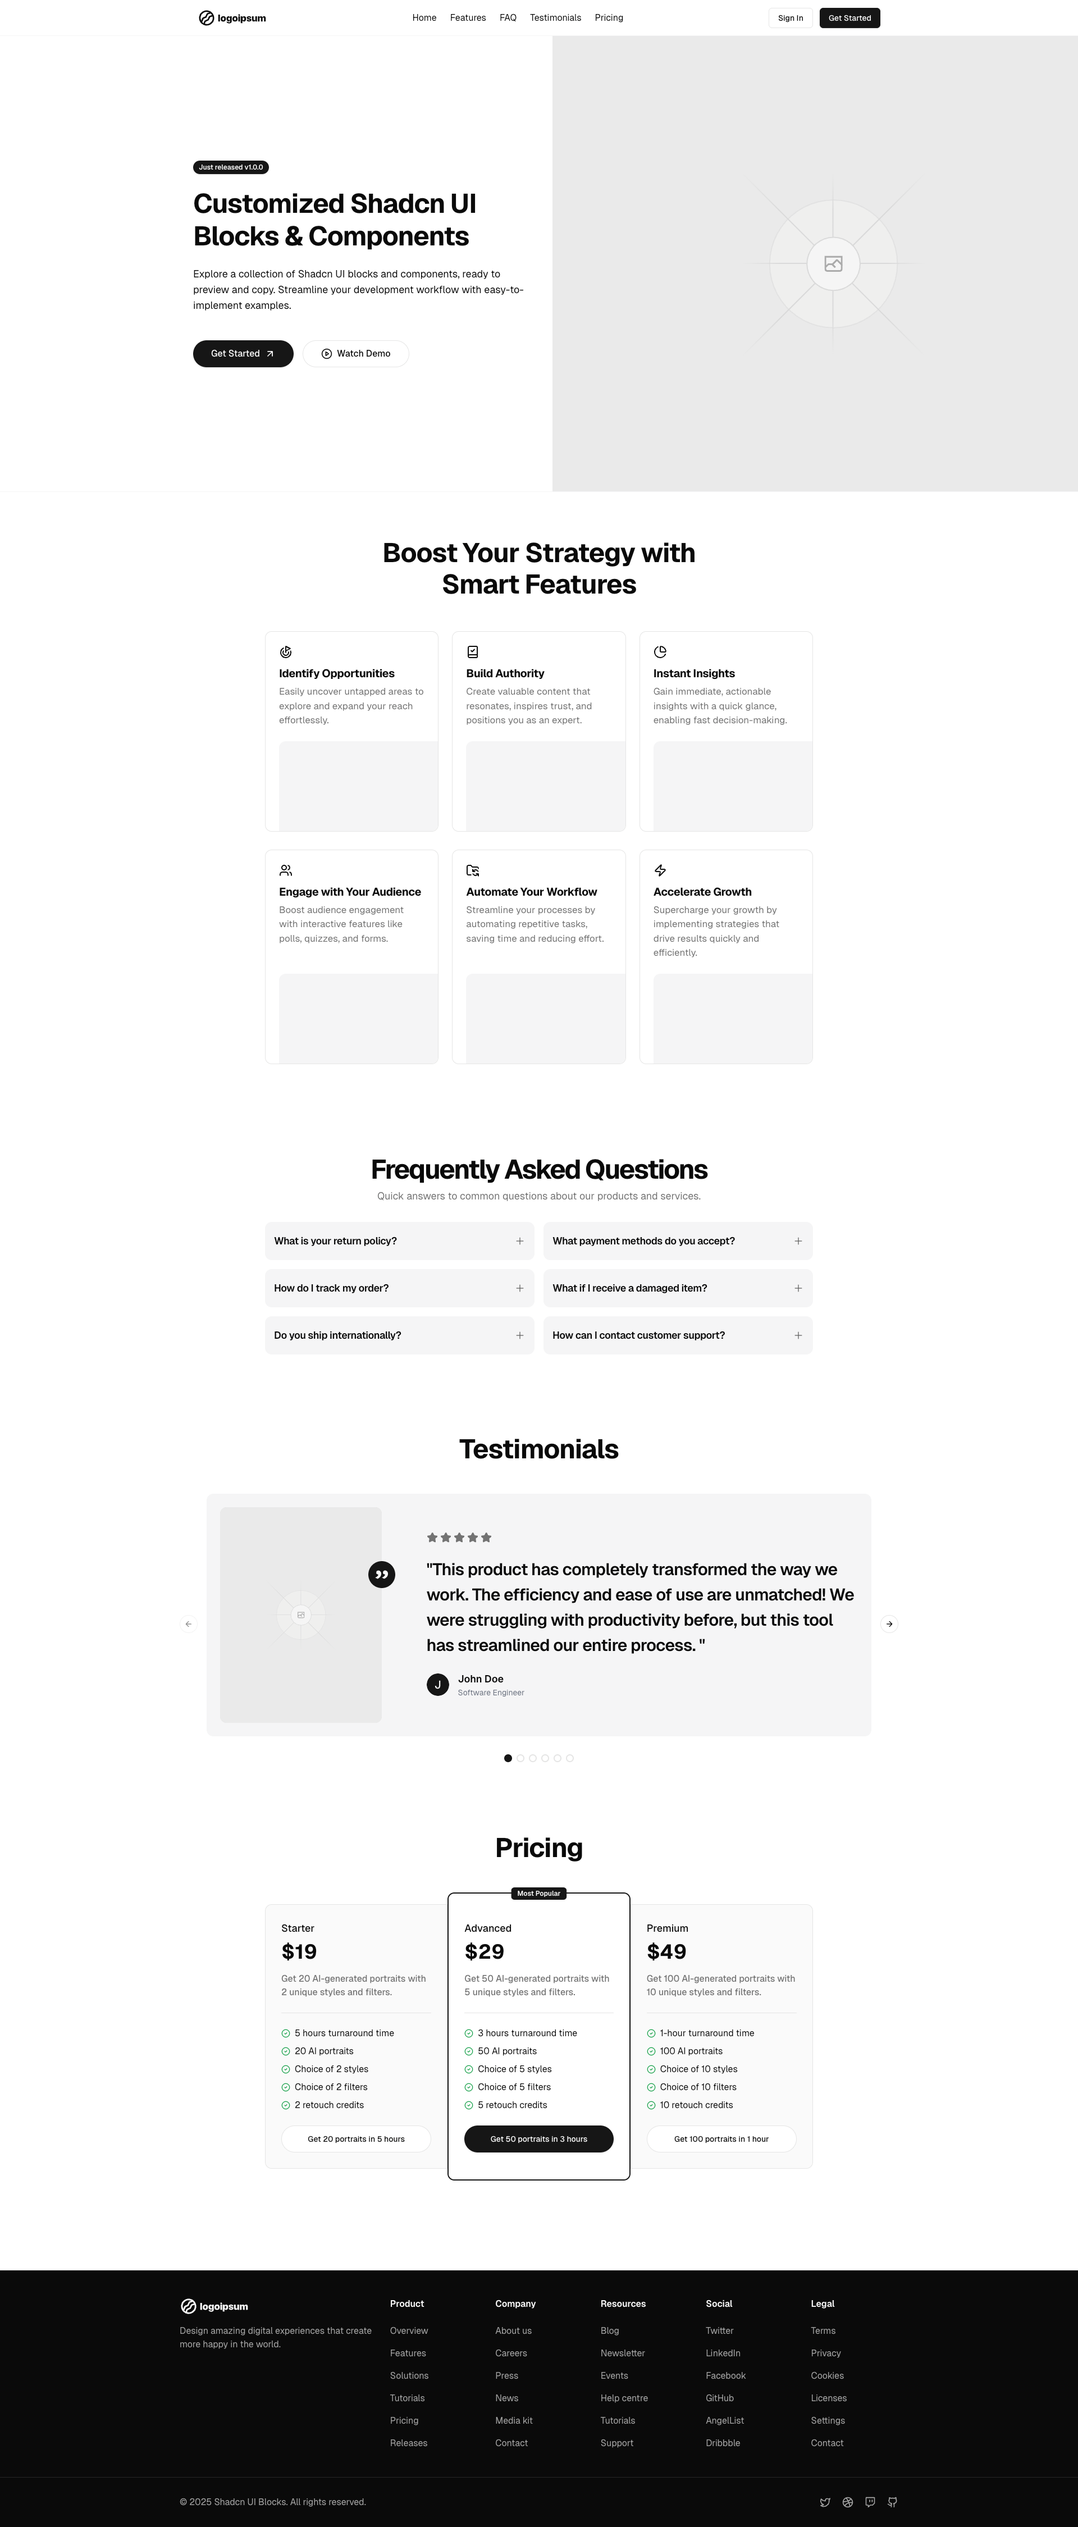
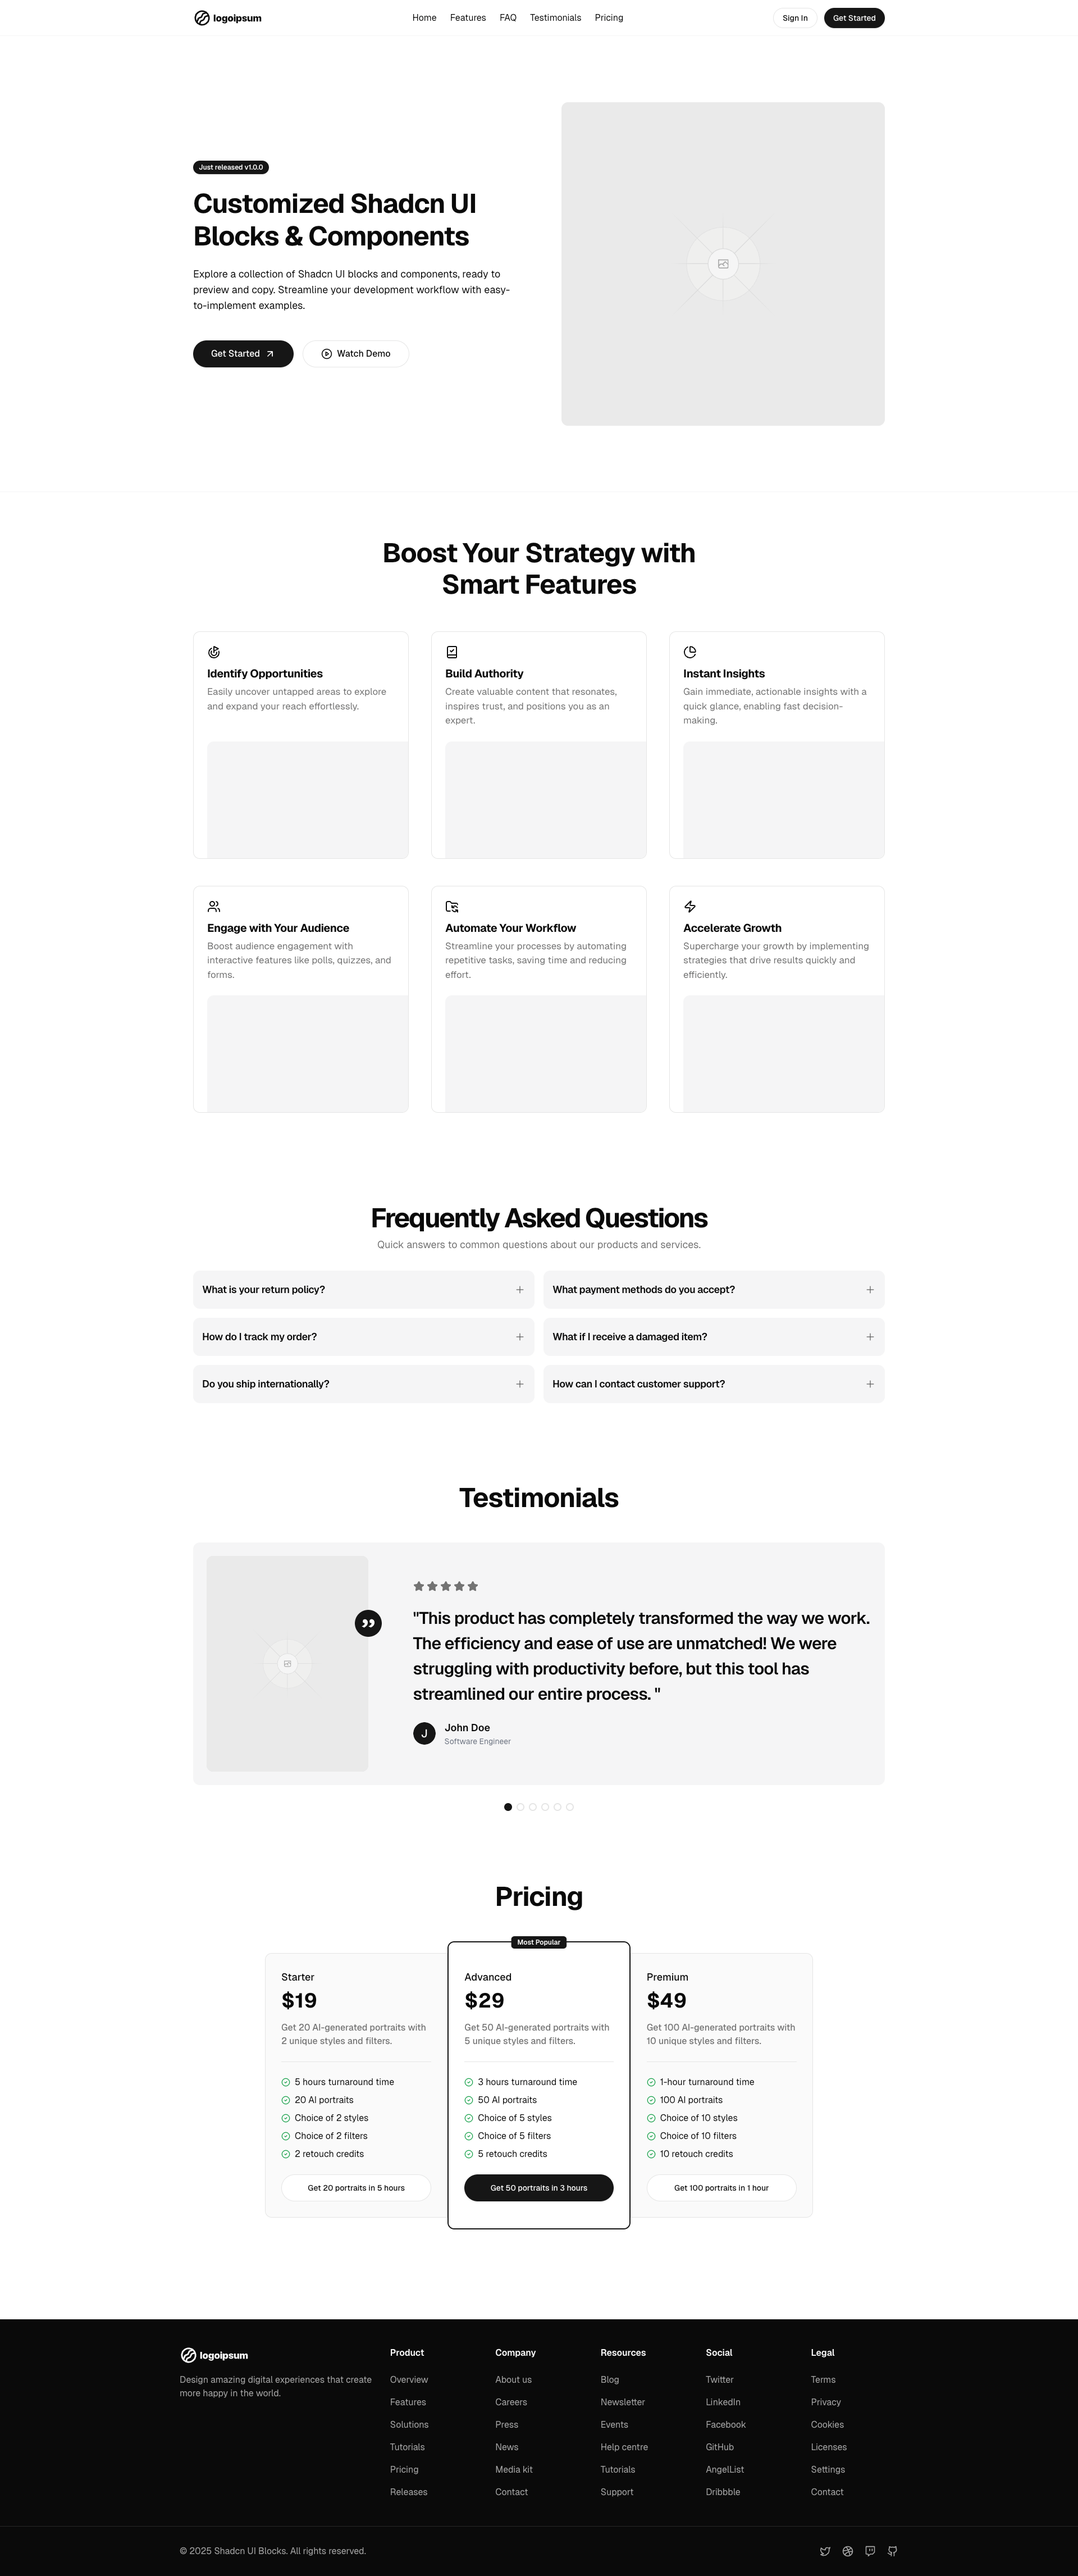
feat: make section containers consistent

diff --git a/components/hero.tsx b/components/hero.tsx
@@ -2,13 +2,12 @@ import { Badge } from "@/components/ui/badge";
 import { Button } from "@/components/ui/button";
 import { ArrowUpRight, CirclePlay } from "lucide-react";
 import Image from "next/image";
-import React from "react";
 
 const Hero = () => {
   return (
-    <div className="h-[calc(100vh-4rem)] flex items-center justify-center overflow-hidden border-b border-accent">
-      <div className="max-w-screen-xl w-full mx-auto grid lg:grid-cols-2 gap-12 px-6 py-12 lg:py-0">
-        <div className="my-auto">
+    <div className="min-h-[calc(100vh-4rem)] w-full flex items-center justify-center overflow-hidden border-b border-accent">
+      <div className="max-w-screen-xl w-full flex flex-col lg:flex-row mx-auto items-center justify-between gap-y-14 gap-x-10 px-6 py-12 lg:py-0">
+        <div className="max-w-xl">
           <Badge className="rounded-full py-1 border-none">
             Just released v1.0.0
           </Badge>
@@ -33,12 +32,12 @@ const Hero = () => {
             </Button>
           </div>
         </div>
-        <div className="relative w-full aspect-video lg:aspect-auto lg:w-[1000px] lg:h-screen bg-accent rounded-xl lg:rounded-none">
+        <div className="relative lg:max-w-lg xl:max-w-xl w-full bg-accent rounded-xl aspect-square">
           <Image
             src="/placeholder.svg"
             fill
             alt=""
-            className="object-cover rounded-xl lg:rounded-none"
+            className="object-cover rounded-xl"
           />
         </div>
       </div>

diff --git a/components/testimonial.tsx b/components/testimonial.tsx
@@ -6,8 +6,6 @@ import {
   CarouselApi,
   CarouselContent,
   CarouselItem,
-  CarouselNext,
-  CarouselPrevious,
 } from "@/components/ui/carousel";
 import { cn } from "@/lib/utils";
 import { StarIcon } from "lucide-react";
@@ -97,11 +95,14 @@ const Testimonial = () => {
   }, [api]);
 
   return (
-    <div id="testimonials" className="w-full py-12 px-6">
+    <div
+      id="testimonials"
+      className="w-full max-w-screen-xl mx-auto py-12 px-6"
+    >
       <h2 className="mb-14 text-5xl md:text-5xl font-bold text-center tracking-tight">
         Testimonials
       </h2>
-      <div className="container w-full lg:max-w-screen-lg xl:max-w-screen-xl mx-auto px-12">
+      <div className="container w-full mx-auto">
         <Carousel setApi={setApi}>
           <CarouselContent>
             {testimonials.map((testimonial) => (
@@ -110,8 +111,6 @@ const Testimonial = () => {
               </CarouselItem>
             ))}
           </CarouselContent>
-          <CarouselPrevious />
-          <CarouselNext />
         </Carousel>
         <div className="flex items-center justify-center gap-2">
           {Array.from({ length: count }).map((_, index) => (

diff --git a/components/ui/button.tsx b/components/ui/button.tsx
@@ -5,7 +5,7 @@ import { cva, type VariantProps } from "class-variance-authority";
 import { cn } from "@/lib/utils";
 
 const buttonVariants = cva(
-  "inline-flex items-center justify-center gap-2 whitespace-nowrap rounded-md text-sm font-medium transition-colors focus-visible:outline-none focus-visible:ring-1 focus-visible:ring-ring disabled:pointer-events-none disabled:opacity-50 [&_svg]:pointer-events-none [&_svg]:size-4 [&_svg]:shrink-0",
+  "inline-flex items-center justify-center gap-2 whitespace-nowrap rounded-full text-sm font-medium transition-colors focus-visible:outline-none focus-visible:ring-1 focus-visible:ring-ring disabled:pointer-events-none disabled:opacity-50 [&_svg]:pointer-events-none [&_svg]:size-4 [&_svg]:shrink-0",
   {
     variants: {
       variant: {
@@ -22,8 +22,8 @@ const buttonVariants = cva(
       },
       size: {
         default: "h-9 px-4 py-2",
-        sm: "h-8 rounded-md px-3 text-xs",
-        lg: "h-12 rounded-md px-8",
+        sm: "h-8 rounded-full px-3 text-xs",
+        lg: "h-12 rounded-full px-8",
         icon: "h-9 w-9",
       },
     },

diff --git a/components/features.tsx b/components/features.tsx
@@ -49,11 +49,11 @@ const features = [
 
 const Features = () => {
   return (
-    <div id="features" className="max-w-screen-lg mx-auto w-full py-20 px-6">
+    <div id="features" className="max-w-screen-xl mx-auto w-full py-20 px-6">
       <h2 className="text-4xl md:text-5xl md:leading-[3.5rem] font-bold tracking-tight sm:max-w-xl sm:text-center sm:mx-auto">
         Boost Your Strategy with Smart Features
       </h2>
-      <div className="mt-14 w-full mx-auto grid md:grid-cols-2 lg:grid-cols-3 gap-x-6 gap-y-8">
+      <div className="mt-14 w-full mx-auto grid md:grid-cols-2 lg:grid-cols-3 gap-x-10 gap-y-12">
         {features.map((feature) => (
           <Card
             key={feature.title}
@@ -69,7 +69,7 @@ const Features = () => {
               </p>
             </CardHeader>
             <CardContent className="mt-auto px-0 pb-0">
-              <div className="bg-muted h-40 ml-6 rounded-tl-xl" />
+              <div className="bg-muted h-52 ml-6 rounded-tl-xl" />
             </CardContent>
           </Card>
         ))}

diff --git a/components/navbar/navigation-sheet.tsx b/components/navbar/navigation-sheet.tsx
@@ -1,5 +1,11 @@
 import { Button } from "@/components/ui/button";
-import { Sheet, SheetContent, SheetTrigger } from "@/components/ui/sheet";
+import {
+  Sheet,
+  SheetContent,
+  SheetTitle,
+  SheetTrigger,
+} from "@/components/ui/sheet";
+import { VisuallyHidden } from "@radix-ui/react-visually-hidden";
 import { Menu } from "lucide-react";
 import { Logo } from "./logo";
 import { NavMenu } from "./nav-menu";
@@ -7,6 +13,9 @@ import { NavMenu } from "./nav-menu";
 export const NavigationSheet = () => {
   return (
     <Sheet>
+      <VisuallyHidden>
+        <SheetTitle>Navigation Drawer</SheetTitle>
+      </VisuallyHidden>
       <SheetTrigger asChild>
         <Button variant="outline" size="icon">
           <Menu />

diff --git a/components/navbar/navbar.tsx b/components/navbar/navbar.tsx
@@ -6,7 +6,7 @@ import { NavigationSheet } from "./navigation-sheet";
 const Navbar = () => {
   return (
     <nav className="h-16 bg-background border-b border-accent">
-      <div className="h-full flex items-center justify-between max-w-screen-xl mx-auto px-4 sm:px-6 lg:px-8">
+      <div className="h-full flex items-center justify-between max-w-screen-xl mx-auto px-4 sm:px-6">
         <Logo />
 
         {/* Desktop Menu */}

diff --git a/components/faq.tsx b/components/faq.tsx
@@ -42,7 +42,7 @@ const faq = [
 
 const FAQ = () => {
   return (
-    <div id="faq" className="w-full max-w-screen-lg mx-auto py-20 px-6">
+    <div id="faq" className="w-full max-w-screen-xl mx-auto py-20 px-6">
       <h2 className="md:text-center text-4xl md:text-5xl !leading-[1.15] font-bold tracking-tighter">
         Frequently Asked Questions
       </h2>
